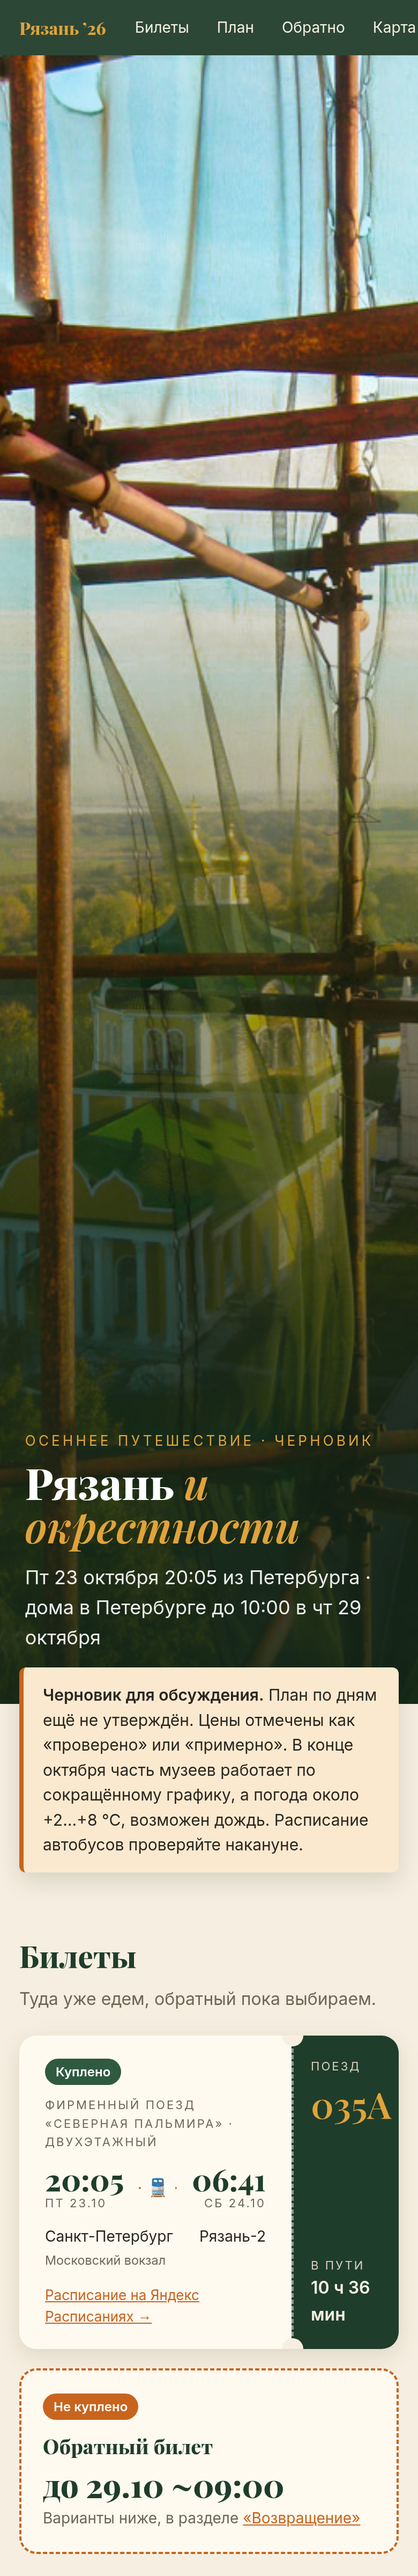
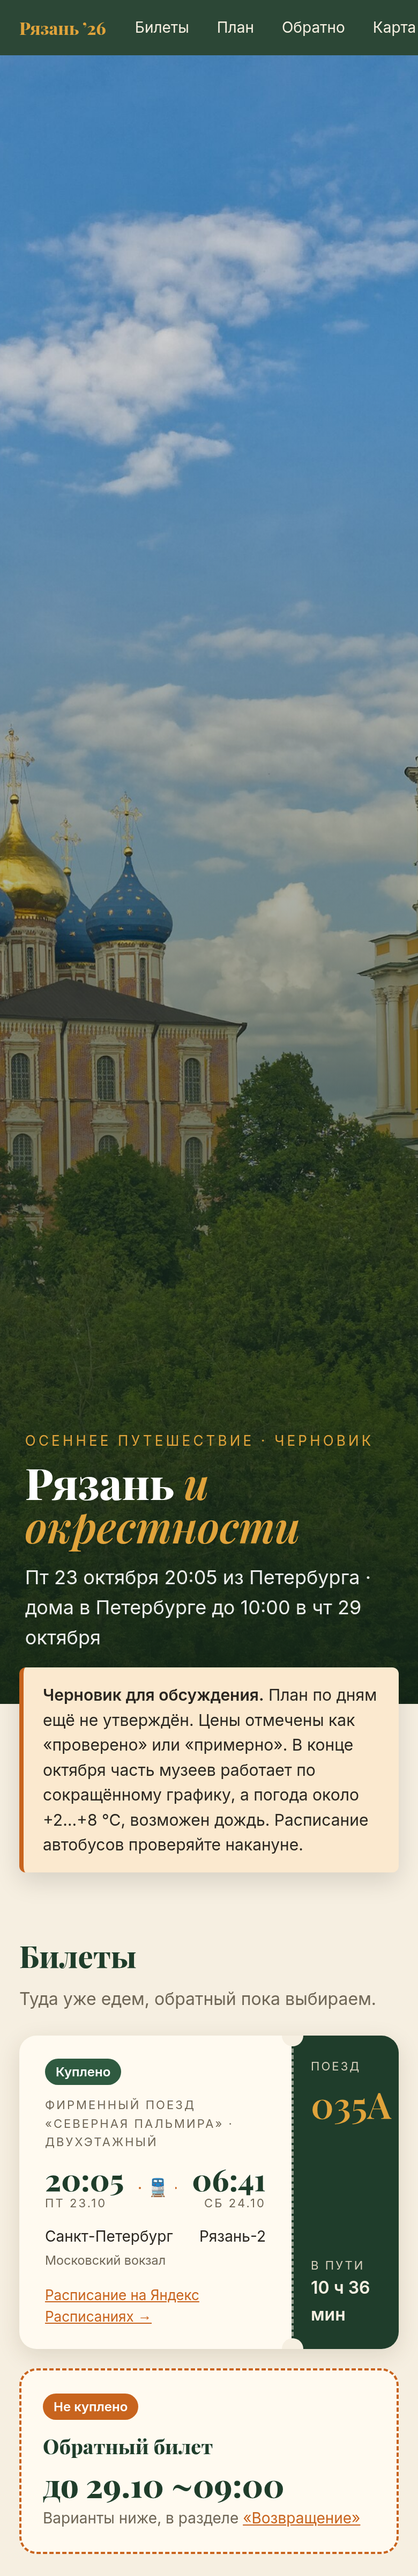
Extend trip to 31 Oct

diff --git a/index.html b/index.html
@@ -44,7 +44,7 @@ footer{background:var(--g);color:#d8d0bd;margin-top:60px;padding:30px 0;font-siz
 @media(max-width:760px){.tickets{grid-template-columns:1fr}.day{grid-template-columns:1fr}.day .ph{min-height:170px}.pass .stub{width:100px}.route .t{font-size:28px}.cl{columns:1}.tl{padding-left:34px}.tl:before{left:12px}.day .dot{left:-36px;width:30px;height:30px;font-size:13px}.hero{min-height:64vh}#map{height:380px}}
 </style></head><body>
 <nav><b>Рязань ’26</b><a href="#tickets">Билеты</a><a href="#plan">План</a><a href="#return">Обратно</a><a href="#map-s">Карта</a><a href="#check">Чек-лист</a></nav>
-<header class="hero"><div class="in"><div class="kick">Осеннее путешествие · черновик</div><h1>Рязань <i>и окрестности</i></h1><p>Пт 23 октября 20:05 из Петербурга · дома в Петербурге до 10:00 в чт 29 октября</p></div></header>
+<header class="hero"><div class="in"><div class="kick">Осеннее путешествие · черновик</div><h1>Рязань <i>и окрестности</i></h1><p>Пт 23 октября 20:05 из Петербурга · обратно утром в сб 31 октября</p></div></header>
 <div class="wrap">
 <div class="note rv"><b>Черновик для обсуждения.</b> План по дням ещё не утверждён. Цены отмечены как «проверено» или «примерно». В конце октября часть музеев работает по сокращённому графику, а погода около +2…+8 °C, возможен дождь. Расписание автобусов проверяйте накануне.</div>
 
@@ -54,55 +54,35 @@ footer{background:var(--g);color:#d8d0bd;margin-top:60px;padding:30px 0;font-siz
 <div style="display:flex;justify-content:space-between;font-size:14px"><span>Санкт-Петербург<br><small style="color:var(--mut)">Московский вокзал</small></span><span style="text-align:right">Рязань-2</span></div>
 <p style="font-size:13px;margin:12px 0 0"><a href="https://rasp.yandex.ru/thread/R_035A_112?departure_from=2026-10-23+20%3A05%3A00&station_from=9602494&station_to=9600746&to_city=1">Расписание на Яндекс Расписаниях →</a></p></div>
 <div class="stub"><div><div class="lbl" style="color:#d8d0bd">Поезд</div><div class="num">035А</div></div><div><div class="lbl" style="color:#d8d0bd">В пути</div><b>10 ч 36 мин</b></div></div></div>
-<div class="pend"><span class="badge b-o">Не куплено</span><h3 style="margin:10px 0 4px;color:var(--g)">Обратный билет</h3><div class="route" style="margin:6px 0"><div class="t" style="font-size:30px">до 29.10 ~09:00</div></div><p style="font-size:14px;color:var(--mut);margin:0">Варианты ниже, в разделе <a href="#return">«Возвращение»</a></p></div>
+<div class="pend"><span class="badge b-o">Не куплено</span><h3 style="margin:10px 0 4px;color:var(--g)">Обратный билет</h3><div class="route" style="margin:6px 0"><div class="t" style="font-size:30px">30→31.10, утро</div></div><p style="font-size:14px;color:var(--mut);margin:0">Варианты ниже, в разделе <a href="#return">«Возвращение»</a></p></div>
 </div></section>
 
-<section id="plan"><h2 class="rv">План по дням (черновик)</h2><p class="sub rv">Базу удобно держать в Рязани, рядом с центром или Рязанью-2. Касимов можно сделать с ночёвкой.</p><div class="tl">
-<div class="day rv"><div class="dot">1</div><div class="ph" style="background-image:url(img/kremlin2.jpg)"></div><div class="bd"><div class="dt">Сб 24.10</div><h3>🏰 Рязань</h3>
-<div class="chips"><span class="chip t">06:41 прибытие</span><span class="chip">🚶 пешком</span></div><ul>
-<li>06:41 прибытие, завтрак, оставить вещи в отеле.</li>
-<li>Рязанский кремль: Успенский собор, колокольня, Дворец Олега, Соборный парк. Режим работы музея проверьте на <a href="https://ryazankreml.ru/">ryazankreml.ru</a>.</li>
-<li>Вечером улица Почтовая, Лыбедский бульвар, набережная Трубежа.</li>
-<li>Что попробовать: рязанская кухня (калачи, «рязанские» пироги), местные кафе на Почтовой.</li></ul></div></div>
-<div class="day rv"><div class="dot">2</div><div class="ph" style="background-image:url(img/konst.jpg)"></div><div class="bd"><div class="dt">Вс 25.10</div><h3>📜 Константиново и Пощупово</h3>
-<div class="chips"><span class="chip">🚌 автобус ~1–1,5 ч</span><span class="chip">🚕 такси ~50 км</span><span class="chip t">10:00–18:00, касса до 17:00</span></div><ul>
-<li>Автобус с Центрального автовокзала Рязани до Константинова, примерно 1–1,5 ч, или такси (около 50 км).</li>
-<li>Музей-заповедник Есенина: <b>в октябре ежедневно 10:00–18:00, касса до 17:00</b> (по сообщению музея от 07.10.2026, <a href="https://www.museum-esenin.ru/posetitelyam/rezhim-raboty">сайт</a>). Усадьба родителей, дом Кашиной, вид на Оку.</li>
-<li>Константиновская чайная (в выходные до 20:00), затем Иоанно-Богословский монастырь в Пощупове (такси примерно 20 мин).</li></ul></div></div>
-<div class="day rv"><div class="dot">3</div><div class="ph" style="background-image:url(img/solotcha.jpg)"></div><div class="bd"><div class="dt">Пн 26.10</div><h3>🌲 Солотча, Мещёра, Спас-Клепики</h3>
-<div class="chips"><span class="chip">🚌 автобус / 🚕 такси ~20 км</span><span class="chip">🚌 ~1,5 ч до Клепиков</span><span class="chip t">пн — музеи часто закрыты</span></div><ul>
-<li>Солотча (около 20 км, автобус или такси): Солотчинский монастырь, сосновый бор, тропы Мещёры.</li>
-<li>Спас-Клепики (около 1,5 ч на автобусе): школа-музей Есенина, Клепиковские озёра. Многие музеи в понедельник закрыты, проверьте заранее.</li>
-<li>Если хочется спокойнее, можно ограничиться Солотчей и прогулкой по лесу.</li></ul></div></div>
-<div class="day rv"><div class="dot">4</div><div class="ph" style="background-image:url(img/kasimov.jpg)"></div><div class="bd"><div class="dt">Вт 27.10</div><h3>🕌 Касимов (можно с ночёвкой)</h3>
-<div class="chips"><span class="chip">🚌 автобус ~3–3,5 ч</span><span class="chip">~180 км</span></div><ul>
-<li>Автобус из Рязани около 3–3,5 ч (около 180 км).</li>
-<li>Ханская мечеть с минаретом, Текие, торговые ряды, Музей самоваров, набережная Оки.</li>
-<li>Что попробовать: татарская выпечка (эчпочмак, чак-чак).</li>
-<li>Альтернатива на этот день: Скопин (гончарный промысел, музей керамики) и усадьба фон Дервиза в Кирицах.</li></ul></div></div>
-<div class="day rv"><div class="dot">5</div><div class="ph" style="background-image:url(img/bison.jpg)"></div><div class="bd"><div class="dt">Ср 28.10</div><h3>🦬 Окский заповедник или Истье, вечером домой</h3>
-<div class="chips"><span class="chip">🚕 такси / 🚌 автобус</span><span class="chip">🚆 «Ласточка» + ночной поезд</span><span class="chip t">экскурсии по записи</span></div><ul>
-<li>Окский заповедник с зубровым питомником (Брыкин Бор, около Спасска-Рязанского): посещение обычно по экскурсиям с записью, проверьте наличие экскурсий в конце октября.</li>
-<li>Спасск-Рязанский: набережная Оки, раскопки Старой Рязани неподалёку (городище, в основном на открытом воздухе).</li>
-<li>Вечером в Москву на «Ласточке» и ночным поездом в Петербург (см. ниже).</li></ul></div></div>
+<section id="plan"><h2 class="rv">План по дням (черновик)</h2><p class="sub rv">7 дней, база в Рязани рядом с центром или Рязанью-2, одна ночь в Касимове. Учтены выходные музеев.</p><div class="tl">
+<div class="day rv"><div class="dot">1</div><div class="ph" style="background-image:url(img/kremlin2.jpg)"></div><div class="bd"><div class="dt">Сб 24.10</div><h3>🏰 Рязань</h3><div class="chips"><span class="chip t">06:41 прибытие</span><span class="chip">🚶 пешком</span><span class="chip t">музеи 10:00–18:00</span></div><ul><li>06:41 прибытие, завтрак, оставить вещи в отеле.</li><li>Рязанский кремль: территория открыта круглосуточно, Дворец Олега и исторический музей на Соборной, 22 работают 10:00–18:00 (касса до 17:15), <b>выходной понедельник</b> (<a href="https://ryazankreml.ru/visitors/450">ryazankreml.ru</a>).</li><li>Вечером улица Почтовая, Лыбедский бульвар, набережная Трубежа.</li><li>Что попробовать: рязанская кухня (калачи, «рязанские» пироги), местные кафе на Почтовой.</li><li>Вариант: 24.10 единственная в октябре дата сборной экскурсии в усадьбу фон Дервиза в Кирицах (только по записи, +7 4912 97-18-87, доб. 6201). Если хочется туда, кремль переносим на пятницу.</li></ul></div></div>
+<div class="day rv"><div class="dot">2</div><div class="ph" style="background-image:url(img/konst.jpg)"></div><div class="bd"><div class="dt">Вс 25.10</div><h3>📜 Константиново и Пощупово</h3><div class="chips"><span class="chip">🚌 автобус ~1–1,5 ч</span><span class="chip">🚕 такси ~50 км</span><span class="chip t">10:00–18:00, касса до 17:00</span></div><ul><li>Автобус с Центрального автовокзала Рязани до Константинова, примерно 1–1,5 ч, или такси (около 50 км).</li><li>Музей-заповедник Есенина: <b>с 5 по 31 октября ежедневно 10:00–18:00, касса до 17:00</b> (сообщение музея от 07.10.2026, <a href="https://www.museum-esenin.ru/posetitelyam/rezhim-raboty">сайт</a>). Усадьба родителей, дом Кашиной, вид на Оку.</li><li>Константиновская чайная (в выходные до 20:00), затем Иоанно-Богословский монастырь в Пощупове (такси примерно 20 мин).</li></ul></div></div>
+<div class="day rv"><div class="dot">3</div><div class="ph" style="background-image:url(img/solotcha.jpg)"></div><div class="bd"><div class="dt">Пн 26.10</div><h3>🌲 Солотча и Мещёра</h3><div class="chips"><span class="chip">🚌 автобус / 🚕 такси ~20 км</span><span class="chip t">пн: музеи закрыты</span><span class="chip">🌲 природа</span></div><ul><li>Понедельник лучше отдать природе: в Рязани кремль и музеи закрыты.</li><li>Солотча (около 20 км): Солотчинский монастырь, сосновый бор, тропы Мещёры, Ока.</li><li>Вечер свободный в Рязани.</li></ul></div></div>
+<div class="day rv"><div class="dot">4</div><div class="ph" style="background-image:url(img/kasimov.jpg)"></div><div class="bd"><div class="dt">Вт 27.10</div><h3>🕌 Касимов, день 1</h3><div class="chips"><span class="chip">🚌 автобус ~3–3,5 ч</span><span class="chip">~180 км</span><span class="chip t">музей 9:30–17:00, пн выходной</span></div><ul><li>Утренний автобус из Рязани около 3–3,5 ч, заселение в Касимове.</li><li>Касимовский музей-заповедник: 9:30–17:00, <b>выходной понедельник</b>, санитарный день последняя пятница месяца (<a href="https://www.kasmuzey.ru/index.php/posetitelyam/rezhim-raboty">kasmuzey.ru</a>). Ханская мечеть с минаретом, Текие, Музей самоваров.</li><li>Что попробовать: татарская выпечка (эчпочмак, чак-чак).</li></ul></div></div>
+<div class="day rv"><div class="dot">5</div><div class="ph" style="background-image:url(img/klepiki.jpg)"></div><div class="bd"><div class="dt">Ср 28.10</div><h3>⛪ Касимов → Спас-Клепики → Рязань</h3><div class="chips"><span class="chip">🚌 / 🚕 через Клепики</span><span class="chip t">проверить автобусы</span></div><ul><li>Утро в Касимове: торговые ряды, набережная Оки.</li><li>Обратно через Спас-Клепики: школа-музей Есенина, Клепиковские озёра. Прямой автобус может быть не каждый день, возможно понадобится такси.</li><li>Вечером в Рязань. 28.10 последняя среда месяца: в Дворце Олега санитарный день.</li></ul></div></div>
+<div class="day rv"><div class="dot">6</div><div class="ph" style="background-image:url(img/bison.jpg)"></div><div class="bd"><div class="dt">Чт 29.10</div><h3>🦬 Окский заповедник и Старая Рязань</h3><div class="chips"><span class="chip">🚕 такси / 🚌 автобус</span><span class="chip t">экскурсии 10:30 · 12:30 · 14:30 · 16:00</span></div><ul><li>Окский заповедник (Брыкин Бор): визит-центр и музей природы ежедневно 10:00–16:00, зубровый питомник только с экскурсоводом; для групп меньше 10 человек запись не нужна (<a href="http://oksky-reserve.ru/visit/information/">oksky-reserve.ru</a>).</li><li>По пути Спасск-Рязанский и городище Старой Рязани (под открытым небом).</li><li>Вечером в четверг с 18:00 до 20:00 в историческом музее на Соборной, 22 открыта новая экспозиция.</li></ul></div></div>
+<div class="day rv"><div class="dot">7</div><div class="ph" style="background-image:url(img/kremlin.jpg)"></div><div class="bd"><div class="dt">Пт 30.10</div><h3>🚆 Спокойный день или Коломна по пути</h3><div class="chips"><span class="chip">🚆 поезд до Москвы</span><span class="chip t">вечером ночной поезд</span></div><ul><li>Вариант А: спокойное утро в Рязани (музеи открыты), обед, вечером поезд в Москву.</li><li>Вариант Б: днём поезд до Коломны (кремль, пастила, Музей коломенской пастилы), вечером из Коломны в Москву. Расписание из Коломны не проверено.</li><li>Скопин (музей керамики) запасной вариант на любой день, кроме понедельника.</li><li>Ночным поездом в Петербург (см. «Возвращение»).</li></ul></div></div>
 </div></section>
 
-<section id="return"><h2 class="rv">Возвращение</h2><p class="sub rv">Цены с Яндекс Расписаний на 17.10.2026, нижняя граница на одного. Они меняются, перед покупкой перепроверьте.</p><div class="ret">
-<div class="rc rec rv"><span class="badge b-o">★ Рекомендуем</span><h3>Через Москву</h3><div class="tm">28.10 вечер → 29.10 05:56–07:19</div><div class="pr">120В плацкарт ~2 582 ₽ · 028А ~3 082 ₽</div><p>«Ласточка» Рязань → Москва, затем ночной поезд из Москвы: 120В 21:28→07:19, 020У 22:50→07:00, 028А 22:08→05:56. Цены ночных поездов с tutu от 16.10; расписание «Ласточки» не проверено.</p></div>
-<div class="rc rv"><span class="badge">Прямой</span> <span class="badge b-a">✓ проверено</span><h3>105У Оренбург — Санкт-Петербург</h3><div class="tm">27.10 19:56 Рязань-1 → 28.10 07:29</div><div class="pr">купе от 6 811 ₽</div><p>Прямой, но в поездке на день меньше.</p></div>
-<div class="rc rv"><span class="badge">Прямой</span> <span class="badge b-a">✓ проверено</span><h3>007С Симферополь — Санкт-Петербург</h3><div class="tm">28.10 00:37 Рязань-2 → 28.10 09:53</div><div class="pr">плацкарт от 2 828 ₽</div><p>Отправление в ночь с 27-го на 28-е.</p></div>
-<div class="rc no rv"><span class="badge b-gr">Не подходит</span><h3>007С, ночь с 28-го на 29-е</h3><div class="tm">29.10 00:37 → 29.10 09:53</div><div class="pr">плацкарт от 2 828 ₽ ✓</div><p>⚠ Прибытие на вокзал в 09:53, домой до 10:00 не успеть.</p></div>
-<div class="rc no rv"><span class="badge b-gr">Не подходит</span><h3>035С / 109Ж</h3><div class="tm">00:29→10:40 / 00:39→12:11</div><div class="pr">—</div><p>Приходят слишком поздно.</p></div>
+<section id="return"><h2 class="rv">Возвращение</h2><p class="sub rv">Ночь с 30 на 31 октября. Цены с Яндекс Расписаний на 17.10.2026, нижняя граница на одного. Они меняются, перед покупкой перепроверьте.</p><div class="ret">
+<div class="rc rec rv"><span class="badge b-o">★ Рекомендуем</span><h3>Через Москву</h3><div class="tm">30.10 вечер → 31.10 07:00–08:00</div><div class="pr">поезд Рязань → Москва + ночной</div><p>Из Рязани: 029Й 18:02→20:50, 103Ж 18:12→21:00 (✓ время, Яндекс; цены не получены). Из Москвы: 020У 22:50→07:00 (купе от ~7 888 ₽), 054А 23:00→08:00 (купе от ~8 203 ₽), 120В 21:28→07:19 (стыковка впритык). Цены по Яндекс Расписаниям 17.10, ориентир; прибытие в Москву на Казанский, отправление с Ленинградского, это через площадь.</p></div>
+<div class="rc rv"><span class="badge">Прямой</span> <span class="badge b-a">✓ проверено</span><h3>007С Симферополь — Санкт-Петербург</h3><div class="tm">31.10 00:37 Рязань-2 → 31.10 09:53</div><div class="pr">купе от 7 756 ₽</div><p>Без пересадок, без ночного переезда через Москву. Плацкарт на эту дату в выдаче не виден.</p></div>
+<div class="rc rv"><span class="badge">Прямой</span> <span class="badge b-a">✓ проверено</span><h3>035С «Северная Пальмира» Адлер — Санкт-Петербург</h3><div class="tm">31.10 00:29 Рязань-2 → 31.10 10:40</div><div class="pr">купе от 6 031 ₽</div><p>Тот же двухэтажный фирменный, что и туда. Самый дешёвый прямой, приходит позже.</p></div>
+<div class="rc rv"><span class="badge b-gr">Не проверено</span><h3>Через Коломну</h3><div class="tm">30.10 вечер</div><div class="pr">—</div><p>Коломна → Москва электричкой или «Ласточкой», затем ночной поезд из Москвы. Расписание и цены не проверены.</p></div>
+<div class="rc no rv"><span class="badge b-gr">Не подходит</span><h3>105У Оренбург — Санкт-Петербург</h3><div class="tm">30.10</div><div class="pr">—</div><p>На 30.10 в выдаче Яндекс Расписаний этого поезда нет.</p></div>
 </div></section>
 
 <section id="map-s"><h2 class="rv">Карта</h2><p class="sub rv">Цвет и номер метки — день поездки.</p><div id="map" class="rv"></div>
-<div class="legend"><span style="--c:#c8641e">1 · Рязань</span><span style="--c:#b8452b">2 · Константиново</span><span style="--c:#2f5a40">3 · Мещёра</span><span style="--c:#7a4b8c">4 · Касимов / Скопин</span><span style="--c:#c99a2e">5 · Окский / Спасск</span></div></section>
+<div class="legend"><span style="--c:#c8641e">1 · Рязань</span><span style="--c:#b8452b">2 · Константиново</span><span style="--c:#2f5a40">3 · Солотча</span><span style="--c:#7a4b8c">4 · Касимов</span><span style="--c:#5b7fa6">5 · Спас-Клепики</span><span style="--c:#c99a2e">6 · Окский / Старая Рязань</span><span style="--c:#8a5a3b">7 · Коломна / Скопин</span></div></section>
 
 <section id="check"><h2 class="rv">Чек-лист</h2><p class="sub rv">Отметки сохраняются в этом браузере.</p><div class="cl rv">
-<label><input type="checkbox"><span>Купить обратный билет</span></label><label><input type="checkbox"><span>Забронировать жильё в Рязани (и в Касимове при ночёвке)</span></label>
+<label><input type="checkbox"><span>Купить обратный билет</span></label><label><input type="checkbox"><span>Забронировать жильё в Рязани (24–27 и 28–30.10)</span></label>
 <label><input type="checkbox"><span>Паспорт, билеты офлайн</span></label><label><input type="checkbox"><span>Тёплая непромокаемая куртка, шапка, удобная обувь для грязи</span></label>
 <label><input type="checkbox"><span>Зонт, пауэрбанк, наличные на автобусы и рынки</span></label><label><input type="checkbox"><span>Проверить расписание автобусов (Константиново, Касимов, Спас-Клепики)</span></label>
-<label><input type="checkbox"><span>Записаться на экскурсию в Окский заповедник</span></label></div>
+<label><input type="checkbox"><span>Окский заповедник: выбрать время экскурсии (10:30 / 12:30 / 14:30)</span></label><label><input type="checkbox"><span>Решить про Кирицы (запись на 24.10)</span></label><label><input type="checkbox"><span>Жильё в Касимове на 27.10</span></label></div>
 <h2 class="rv" style="font-size:28px;margin-top:40px">Полезные ссылки</h2><div class="links rv" style="margin-top:14px">
 <a href="https://rasp.yandex.ru/">Яндекс Расписания</a><a href="https://www.tutu.ru/poezda/">Туту — поезда</a><a href="https://ticket.rzd.ru/">РЖД</a><a href="https://www.museum-esenin.ru/">Музей-заповедник Есенина</a><a href="https://ryazankreml.ru/">Рязанский кремль</a><a href="https://www.oka-reserve.ru/">Окский заповедник</a></div></section>
 </div>
@@ -113,9 +93,9 @@ footer{background:var(--g);color:#d8d0bd;margin-top:60px;padding:30px 0;font-siz
 <a href="https://commons.wikimedia.org/wiki/File:Ryazan_oblast_Kasimov_Khan_mosque.jpg">Ханская мечеть, Касимов</a> — Ерней, public domain ·
 <a href="https://commons.wikimedia.org/wiki/File:%D0%97%D1%83%D0%B1%D1%80_23.jpg">Зубр</a> © Svklimkin, CC BY-SA 4.0. Карта © OpenStreetMap, © CARTO.</div></footer>
 <script>
-const C={1:'#c8641e',2:'#b8452b',3:'#2f5a40',4:'#7a4b8c',5:'#c99a2e'};
-const P=[[1,"Рязанский кремль",54.6363,39.7499],[1,"Рязань-2 (вокзал)",54.6287,39.7366],[2,"Константиново, музей Есенина",54.8472,39.5904],[2,"Пощупово, монастырь",54.8681,39.6417],[3,"Солотча",54.7864,39.8389],[3,"Спас-Клепики",55.1297,40.1756],[4,"Касимов",54.9372,41.3914],[4,"Скопин (альтернатива)",53.8236,39.5503],[4,"Истье, усадьба",53.9339,39.3667],[5,"Окский заповедник, зубровый питомник",54.735,40.85],[5,"Спасск-Рязанский",54.4083,40.3833],[5,"Старая Рязань",54.4583,40.0806]];
-const m=L.map('map',{scrollWheelZoom:false}).setView([54.6,40.2],8);
+const C={1:'#c8641e',2:'#b8452b',3:'#2f5a40',4:'#7a4b8c',5:'#5b7fa6',6:'#c99a2e',7:'#8a5a3b'};
+const P=[[1,"Рязанский кремль",54.6363,39.7499],[1,"Рязань-2 (вокзал)",54.6287,39.7366],[2,"Константиново, музей Есенина",54.8472,39.5904],[2,"Пощупово, монастырь",54.8681,39.6417],[3,"Солотча",54.7864,39.8389],[4,"Касимов",54.9372,41.3914],[5,"Спас-Клепики",55.1297,40.1756],[6,"Окский заповедник, зубровый питомник",54.735,40.85],[6,"Спасск-Рязанский",54.4083,40.3833],[6,"Старая Рязань",54.4583,40.0806],[7,"Коломна (вариант)",55.1028,38.7531],[7,"Скопин (запасной)",53.8236,39.5503],[1,"Кирицы, усадьба фон Дервиза (по записи 24.10)",54.3797,40.2836]];
+const m=L.map('map',{scrollWheelZoom:false}).setView([54.7,40.0],8);
 L.tileLayer('https://{s}.basemaps.cartocdn.com/light_all/{z}/{x}/{y}{r}.png',{attribution:'© OpenStreetMap © CARTO',subdomains:'abcd'}).addTo(m);
 P.forEach(p=>L.marker([p[2],p[3]],{icon:L.divIcon({className:'',html:`<div class="mk" style="background:${C[p[0]]}">${p[0]}</div>`,iconSize:[30,30],iconAnchor:[15,15]})}).addTo(m).bindPopup(`<b>День ${p[0]}</b><br>${p[1]}`));
 document.querySelectorAll('.cl input').forEach((c,i)=>{const k='ryz-cl-'+i;c.checked=localStorage.getItem(k)==='1';c.onchange=()=>localStorage.setItem(k,c.checked?'1':'0')});
